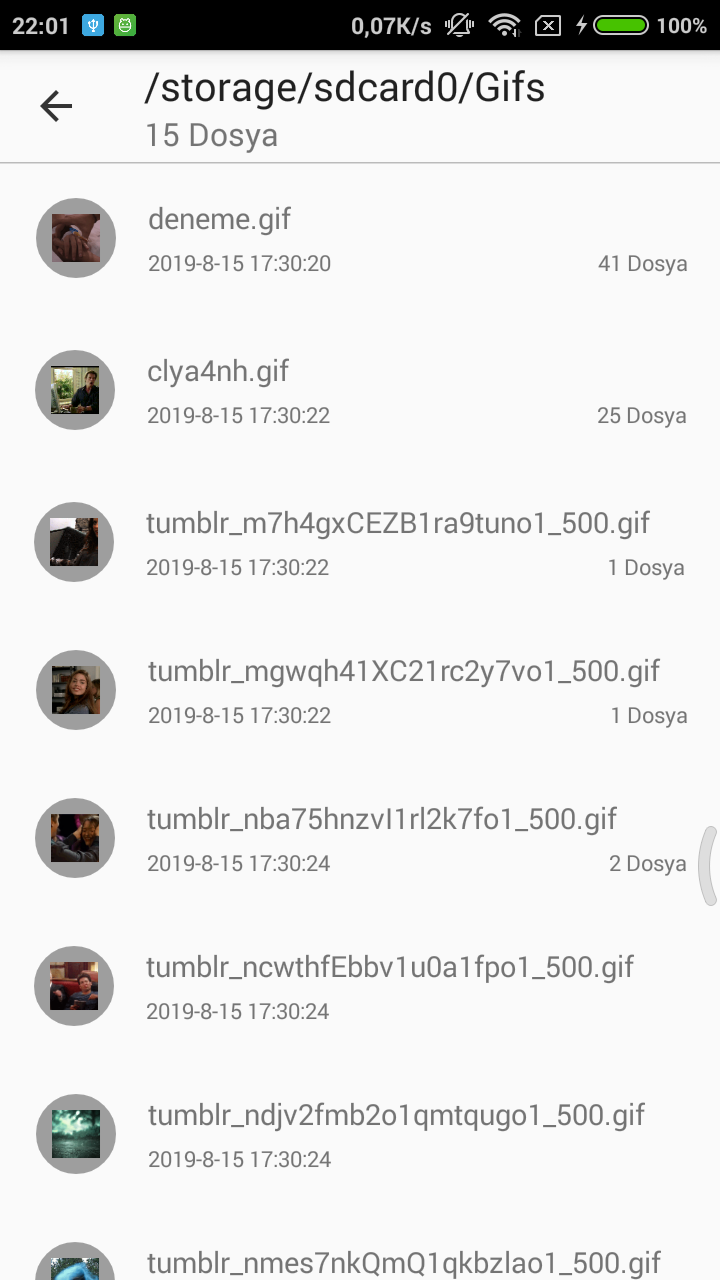
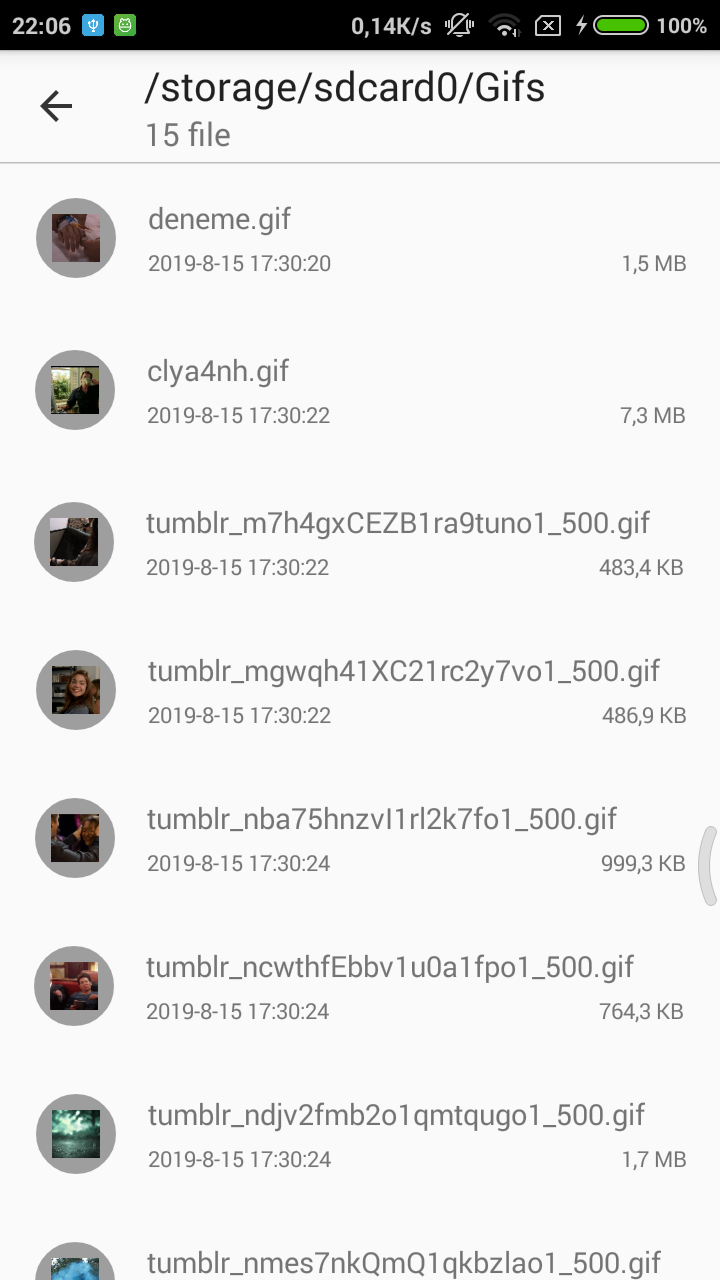
init

diff --git a/galleryview/src/main/java/com/iamkurtgoz/galleryview/list/adapters/GalleryAdapter.java b/galleryview/src/main/java/com/iamkurtgoz/galleryview/list/adapters/GalleryAdapter.java
@@ -54,10 +54,11 @@ public class GalleryAdapter extends RecyclerView.Adapter<GalleryHolder> {
             holder.imgHeader.setImageResource(R.drawable.galleryview_ic_folder_white);
             holder.textDetail.setText(model.getFileItemCount() + " " + context.getString(R.string.file));
         } else {
+            holder.textExt.setText(getExt(model.getAbsolutePath()));
+            holder.textDetail.setText(model.getSize());
             RequestOptions options = new RequestOptions();
             options.centerCrop();
             String fileMediaType = GalleryTools.with(context).getMimeTypeSplit(model.getFile())[0];
-            holder.textExt.setText(getExt(model.getAbsolutePath()));
             if (fileMediaType.equalsIgnoreCase("image")){
                 holder.textExt.setText("");
                 Glide.with(context).load(model.getFile()).apply(options).into(holder.imgHeader);

diff --git a/README.md b/README.md
@@ -3,7 +3,8 @@
 
 [![](https://jitpack.io/v/iamkurtgoz/GalleryView.svg)](https://jitpack.io/#iamkurtgoz/GalleryView)
 
-![](ss/1.png) ![](ss/2.png)
+![](ss/1.png = 100x200)
+![](ss/2.png = 100x300)
 
 ## Setup
 ### Step 1. Add the JitPack repository to your build file
